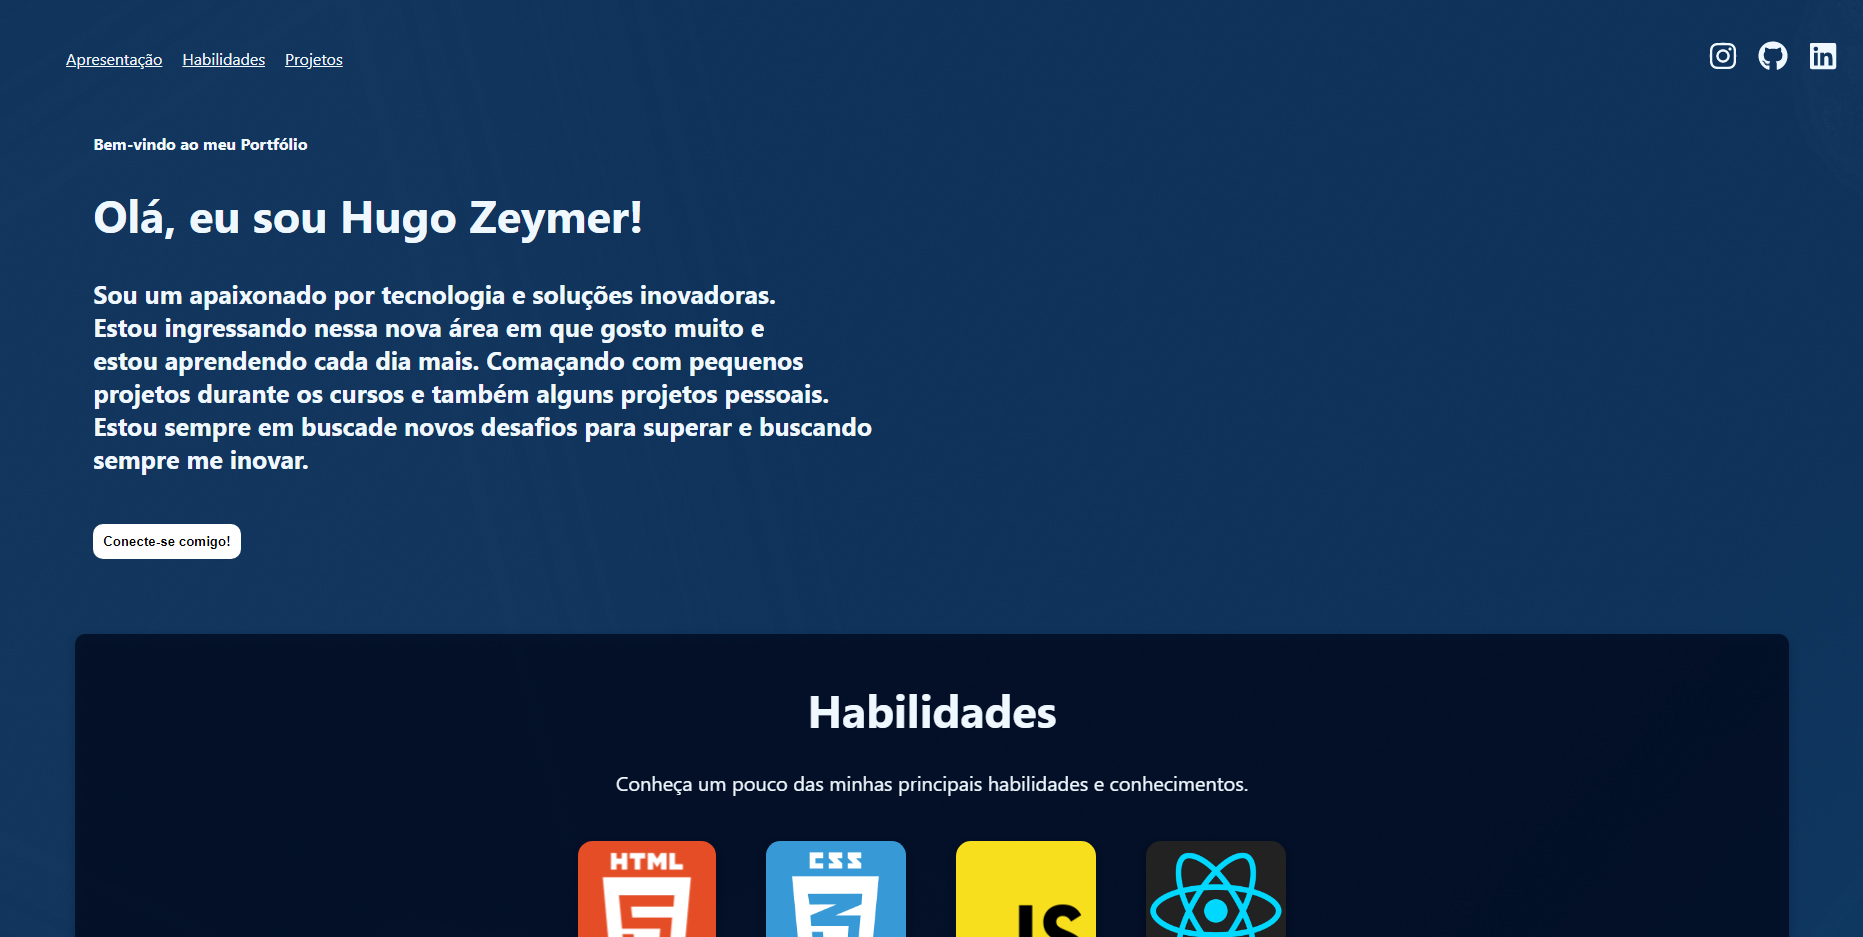
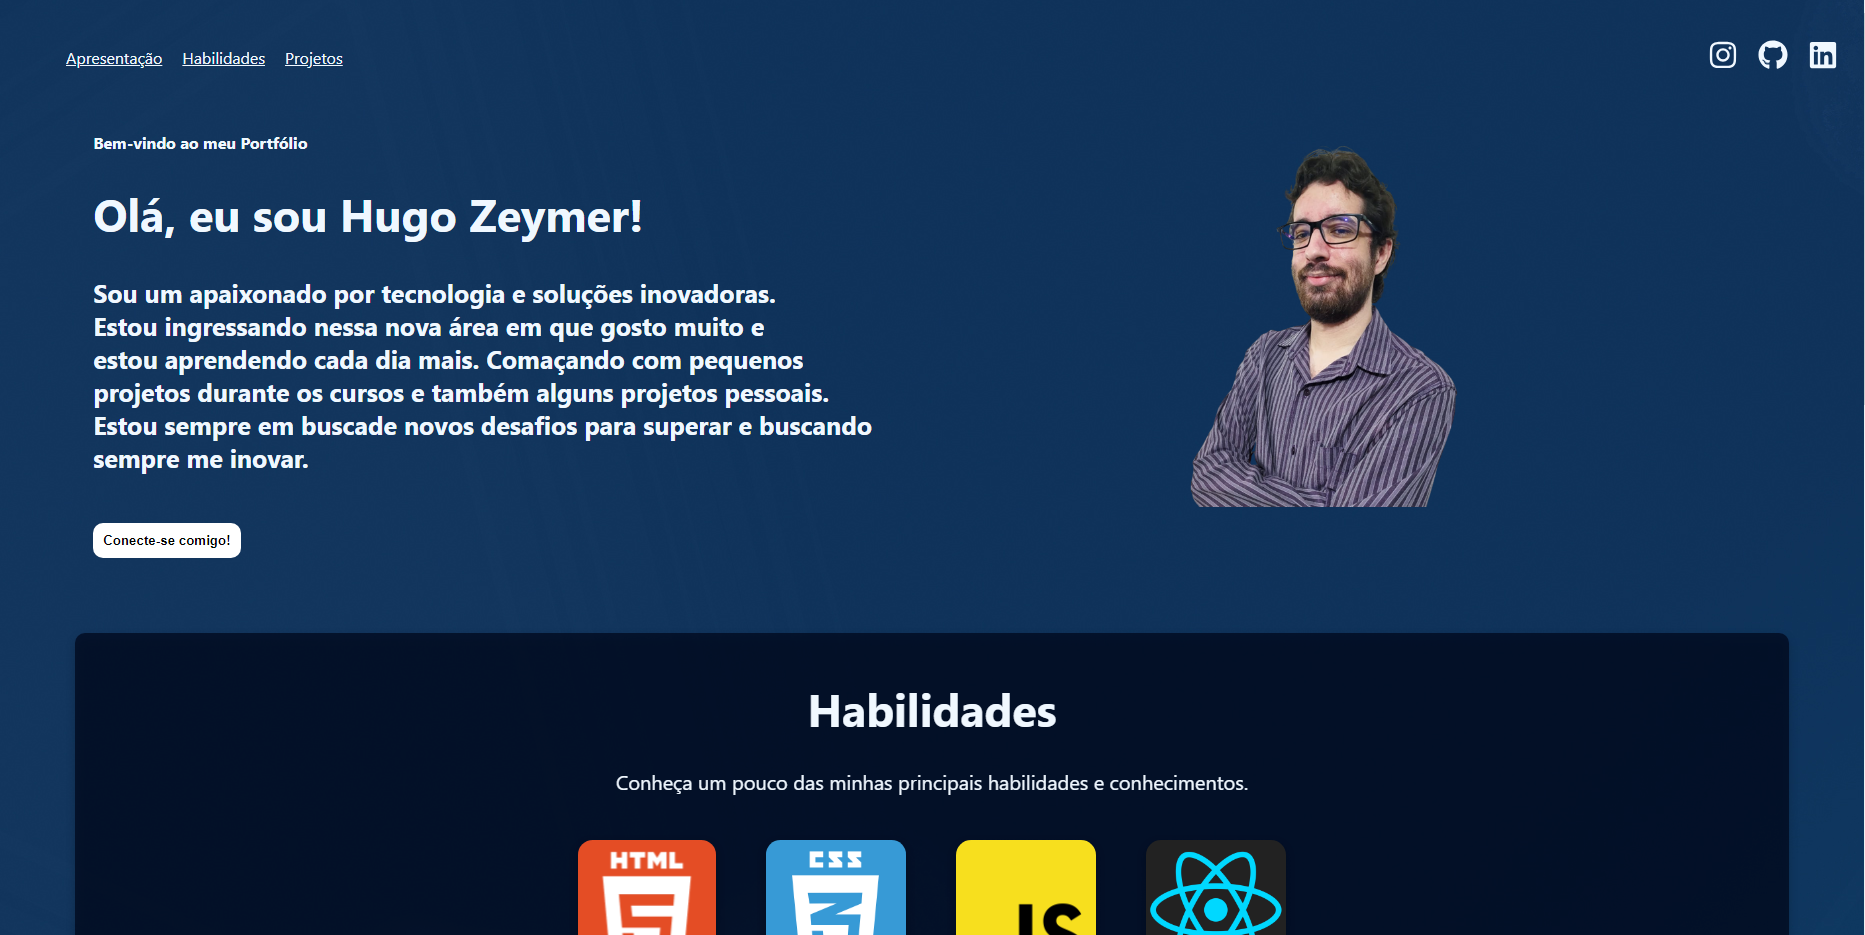
Nova versão - 11/07
Adicionado a foto de perfil

diff --git a/src/componentes/sections/Presentation.js b/src/componentes/sections/Presentation.js
@@ -1,6 +1,7 @@
 import styles from './Presentation.module.css'
 import ButtonA from '../elements/ButtonA'
 import {useEffect, useState} from 'react'
+import Photo from '../../Image/WhatsApp_Image_2022-10-15_at_01.58.32-removebg-preview-removebg-preview.png'
 
 function Presentation(){
     const [text, setText] = useState('');
@@ -49,6 +50,7 @@ function Presentation(){
                 sempre me inovar.
             </h4>
             <ButtonA link='https://www.linkedin.com/in/hugozauad/' text='Conecte-se comigo!' />
+            <img src={Photo}/>
         </div>
     )  
 }

diff --git a/src/componentes/sections/Presentation.module.css b/src/componentes/sections/Presentation.module.css
@@ -10,3 +10,10 @@
 .Presentation h4{
     font-size: 25px;
 }
+
+.Presentation img{
+    position: absolute;
+    right: 400px;
+    width: 300px;
+    bottom: 430px;
+}
